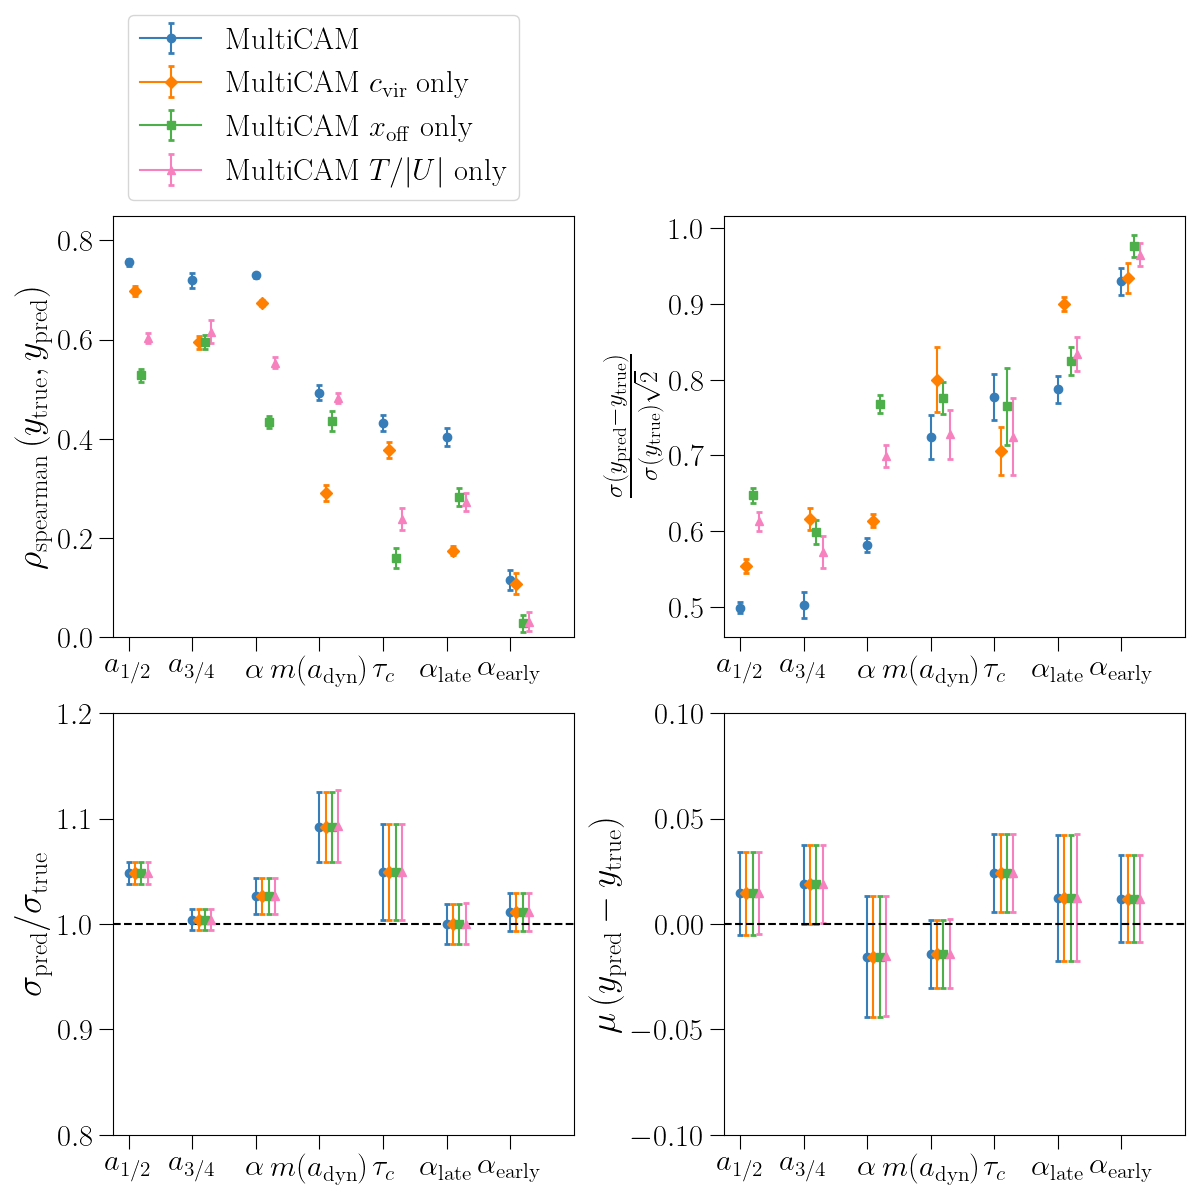
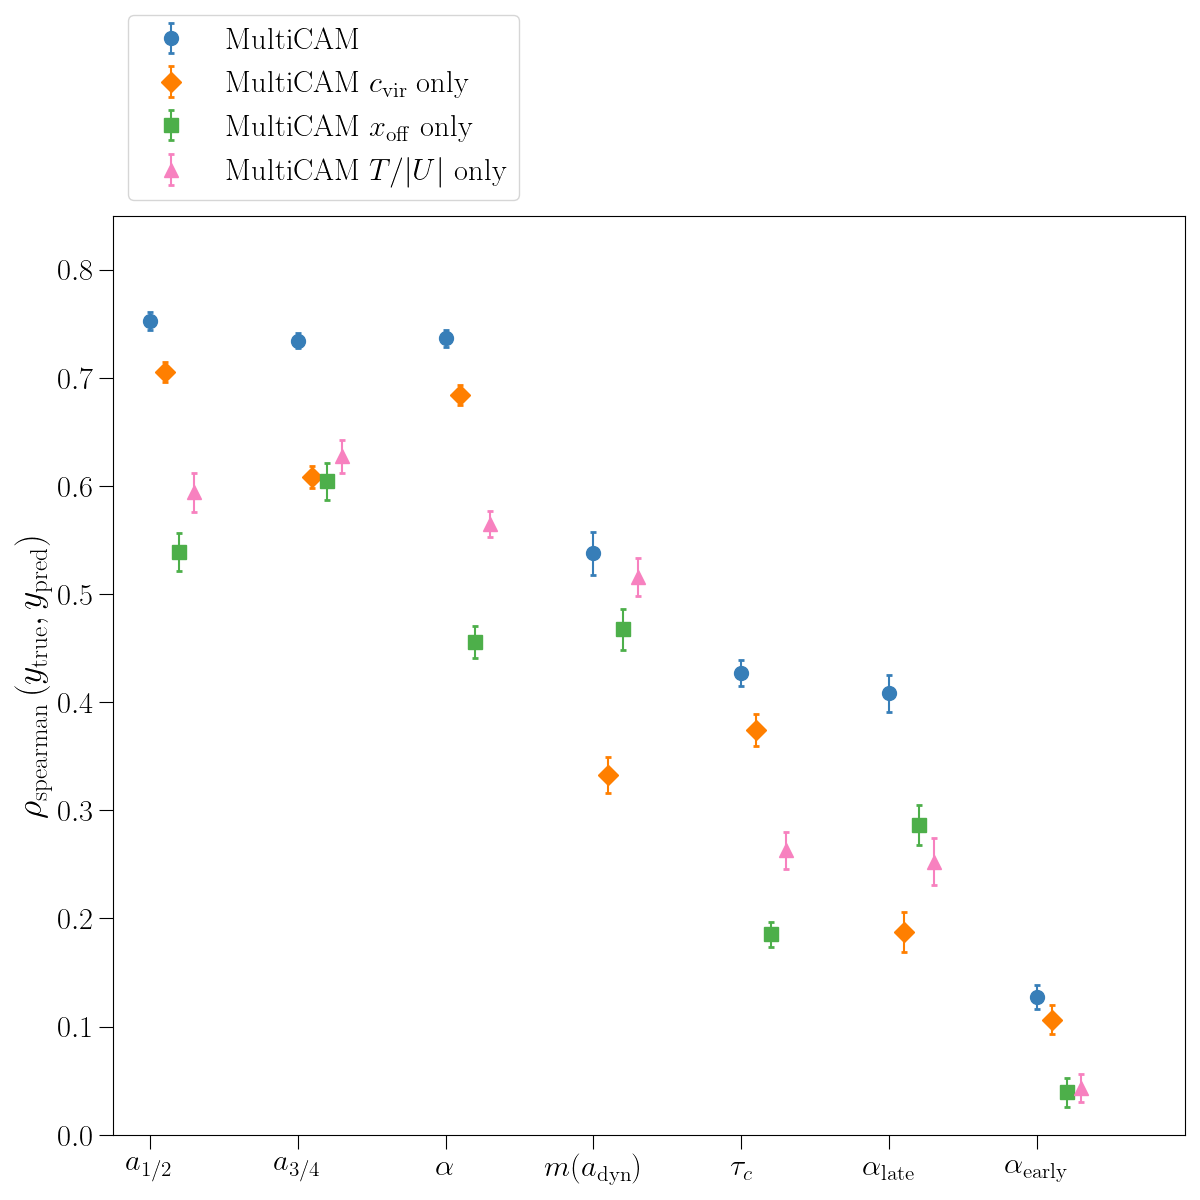
update figures

diff --git a/bin/figures.py b/bin/figures.py
@@ -238,6 +238,7 @@ def make_am_pred_plots():
     cat = mah_data["cat"]
     am = mah_data["am"]
     mass_bins = mah_data["mass_bins"]
+    mass_bins = mass_bins[:-1]  # remove last bin to avoid spearman error.
 
     # prepare catalog with all a(m)
     am_names = [f"am_{ii}" for ii in range(len(mass_bins))]
@@ -261,28 +262,28 @@ def make_am_pred_plots():
         "linear_cvir": {
             "xy": datasets["cvir_only"]["train"],
             "n_features": 1,
-            "n_targets": 100,
+            "n_targets": 99,
             "model": "linear",
             "kwargs": {"to_marginal_normal": True, "use_multicam": True},
         },
         "linear_x0": {
             "xy": datasets["x0_only"]["train"],
             "n_features": 1,
-            "n_targets": 100,
+            "n_targets": 99,
             "model": "linear",
             "kwargs": {"to_marginal_normal": True, "use_multicam": True},
         },
         "linear_tu": {
             "xy": datasets["tu_only"]["train"],
             "n_features": 1,
-            "n_targets": 100,
+            "n_targets": 99,
             "model": "linear",
             "kwargs": {"to_marginal_normal": True, "use_multicam": True},
         },
         "linear_all": {
             "xy": datasets["all"]["train"],
             "n_features": 7,
-            "n_targets": 100,
+            "n_targets": 99,
             "model": "linear",
             "kwargs": {"to_marginal_normal": True, "use_multicam": True},
         },
@@ -451,12 +452,10 @@ def make_inv_pred_plots():
 
     # make metrics plot
     metrics_data = {
-        "spear": {
-            "yrange": (0, 0.85),
-        },
-        "rscatter": {},
-        "sigma_ratio": {"yrange": (0.8, 1.2), "hline": 1.0},
-        "mu": {"yrange": (-0.1, 0.1), "hline": 0.0},
+        "spear": {"yrange": (0, 0.85)},
+        # "rscatter": {},
+        # "sigma_ratio": {"yrange": (0.8, 1.2), "hline": 1.0},
+        # "mu": {"yrange": (-0.1, 0.1), "hline": 0.0},
     }
 
     markers = ["o", "D", "s", "^"]
@@ -492,6 +491,8 @@ def make_inv_pred_plots():
         models,
         cat_test,
         params,
+        nrows=1,
+        ncols=1,
         ticksize=22,
         y_label_size=26,
         bbox_to_anchor=(0.0, 1.0, 0.45, 0.45),
@@ -511,6 +512,11 @@ def make_pred_plots():
     scales = mah_data["scales"]
     mass_bins = mah_data["mass_bins"]
 
+    # prepare catalog with all m_a
+    ma_names = [f"ma_{ii}" for ii in range(len(scales))]
+    for ii in range(len(scales)):
+        cat.add_column(ma[:, ii], name=ma_names[ii])
+
     # prepare catalog with all a_m
     am_names = [f"am_{ii}" for ii in range(len(mass_bins))]
     for ii in range(len(mass_bins)):
@@ -521,13 +527,22 @@ def make_pred_plots():
     alphas, _, _ = alpha_analysis(ma, scales, mass_bins, alpha_file=alpha_file)
     cat.add_column(alphas, name="alpha")
 
-    # load diffmah fits
+    # load diffmah parameters of best fits.
     pars = np.load(root.joinpath("data", "processed", "pbest_diffmah.npy"))
     logtc, ue, ul = pars[:, 0], pars[:, 1], pars[:, 2]
     early, late = get_early_late(ue, ul)
     cat.add_column(10**logtc, name="tau_c")
     cat.add_column(early, name="alpha_early")
     cat.add_column(late, name="alpha_late")
+
+    # load diffmah fits curves.
+    diffmah_curves = np.load(root.joinpath("data", "processed", "diffmah_fits.npy"))
+    ma_diffmah_names = [f"ma_diffmah_{ii}" for ii in range(len(scales))]
+    for ii in range(len(scales)):
+        cat.add_column(diffmah_curves[:, ii], name=ma_diffmah_names[ii])
+
+    # add a_{1/2} also as alternative parametrization
+    cat.add_column(get_an_from_am(am, mass_bins, 0.5), name="a2")
 
     # add savitsky-golay gradients
     ks = [11, 21, 41, 81, 121, 161]
@@ -543,10 +558,7 @@ def make_pred_plots():
     ]
     assert delta_k and all_grad_names
 
-    # add a_{1/2} also as alternative parametrization
-    cat.add_column(get_an_from_am(am, mass_bins, 0.5), name="a2")
-
-    # add to catalog
+    # add gradients to catalog catalog
     for k in ks:
         for jj in range(gamma_k[k].shape[1]):
             name = grad_names_k[k][jj]
@@ -554,20 +566,28 @@ def make_pred_plots():
             cat.add_column(value, name=name)
 
     info = {
-        "all": {
+        "ma": {
+            "x": ma_names,
+            "y": params,
+        },
+        "am": {
             "x": am_names,
+            "y": params,
+        },
+        "ma_diffmah": {
+            "x": ma_diffmah_names,
+            "y": params,
+        },
+        "params_diffmah": {
+            "x": ("tau_c", "alpha_early", "alpha_late"),
+            "y": params,
+        },
+        "new_params_diffmah": {
+            "x": ("tau_c", "a2", "alpha_late"),
             "y": params,
         },
         "alpha": {
             "x": ("alpha",),
-            "y": params,
-        },
-        "diffmah": {
-            "x": ("tau_c", "alpha_early", "alpha_late"),
-            "y": params,
-        },
-        "diffmah_new": {
-            "x": ("tau_c", "a2", "alpha_late"),
             "y": params,
         },
         "gradients": {
@@ -586,29 +606,29 @@ def make_pred_plots():
     datasets, _, cat_test = prepare_datasets(cat, info)
 
     data = {
-        "multicam": {
-            "xy": datasets["all"]["train"],
-            "n_features": 100,
+        "multicam_ma": {
+            "xy": datasets["ma"]["train"],
+            "n_features": 165,
             "n_targets": len(params),
             "model": "linear",
             "kwargs": {"to_marginal_normal": True, "use_multicam": True},
         },
-        "multicam_alpha": {
-            "xy": datasets["alpha"]["train"],
-            "n_features": 1,
+        "multicam_ma_diffmah": {
+            "xy": datasets["ma_diffmah"]["train"],
+            "n_features": 165,
             "n_targets": len(params),
             "model": "linear",
             "kwargs": {"to_marginal_normal": True, "use_multicam": True},
         },
-        "multicam_diffmah_new": {
-            "xy": datasets["diffmah_new"]["train"],
+        "multicam_params_diffmah": {
+            "xy": datasets["params_diffmah"]["train"],
             "n_features": 3,
             "n_targets": len(params),
             "model": "linear",
             "kwargs": {"to_marginal_normal": True, "use_multicam": True},
         },
-        "mixed_cam": {
-            "xy": datasets["all"]["train"],
+        "optcam": {
+            "xy": datasets["am"]["train"],
             "n_features": 100,
             "n_targets": len(params),
             "model": "mixed_cam",
@@ -618,9 +638,16 @@ def make_pred_plots():
                 "cam_orders": [opcam_dict[param]["order"] for param in params],
             },
         },
-        # "multicam_diffmah": {
-        #     "xy": datasets["diffmah"]["train"],
+        # "multicam_diffmah_new": {
+        #     "xy": datasets["diffmah_new"]["train"],
         #     "n_features": 3,
+        #     "n_targets": len(params),
+        #     "model": "linear",
+        #     "kwargs": {"to_marginal_normal": True, "use_multicam": True},
+        # },
+        # "multicam_alpha": {
+        #     "xy": datasets["alpha"]["train"],
+        #     "n_features": 1,
         #     "n_targets": len(params),
         #     "model": "linear",
         #     "kwargs": {"to_marginal_normal": True, "use_multicam": True},
@@ -647,40 +674,49 @@ def make_pred_plots():
     }
     models = training_suite(data)
     metrics_data = {
-        "spear": {"yrange": (0.25, 0.85)},
-        "rscatter": {"yrange": (0.3, 1.0)},
-        "sigma_ratio": {"yrange": (0.8, 1.2), "hline": 1.0},
-        "mu": {"yrange": (-0.2, 0.2), "hline": 0.0},
+        "spear": {"yrange": (0.3, 0.85)},
+        # "rscatter": {"yrange": (0.3, 1.0)},
+        # "sigma_ratio": {"yrange": (0.8, 1.2), "hline": 1.0},
+        # "mu": {"yrange": (-0.2, 0.2), "hline": 0.0},
     }
 
-    markers = ["o", "D", "s", "^"]
+    markers = ["o", "v", "^", "D", "*"]
     test_data = {
-        "multicam": (datasets["all"]["test"][0], r"\rm MultiCAM", rxplots.cb_colors[0], markers[0]),
-        "multicam_alpha": (
-            datasets["alpha"]["test"][0],
-            r"\rm MultiCAM $\alpha$ only",
-            rxplots.cb_colors[1],
-            markers[1],
+        "multicam_ma": (
+            datasets["ma"]["test"][0],
+            r"\rm MultiCAM $m(a)$",
+            rxplots.cb_colors[0],
+            markers[0],
         ),
-        "multicam_diffmah_new": (
-            datasets["diffmah_new"]["test"][0],
-            r"\rm MultiCAM DiffMAH parameters with $a_{1/2}$",
+        "multicam_ma_diffmah": (
+            datasets["ma_diffmah"]["test"][0],
+            r"\rm MultiCAM DiffMAH $m(a)$ curves",
             rxplots.cb_colors[2],
             markers[2],
         ),
-        "mixed_cam": (
-            datasets["all"]["test"][0],
-            r"\rm Optimal CAM",
+        "multicam_params_diffmah": (
+            datasets["params_diffmah"]["test"][0],
+            r"\rm MultiCAM DiffMAH parameters",
+            rxplots.cb_colors[1],
+            markers[1],
+        ),
+        "optcam": (
+            datasets["am"]["test"][0],
+            r"\rm CAM $a_{\rm opt}$",
             rxplots.cb_colors[3],
             markers[3],
         ),
-        # 'multicam_diffmah': (datasets['diffmah']['test'][0], r"\rm MultiCAM DiffMAH parameters",
-        # 'b', 's'),
         # "overfitting5": (
         #     datasets["overfitting5"]["test"][0],
         #     r"\rm MultiCAM subsampled every 5",
         #     "g",
         #     "D",
+        # ),
+        # "multicam_alpha": (
+        #     datasets["alpha"]["test"][0],
+        #     r"\rm MultiCAM $\alpha$ only",
+        #     rxplots.cb_colors[1],
+        #     markers[1],
         # ),
         # "overfitting10": (
         #     datasets["overfitting10"]["test"][0],
@@ -697,22 +733,23 @@ def make_pred_plots():
         models,
         cat_test,
         params=params,
-        ncols=2,
-        nrows=2,
-        figsize=(21, 21),
+        ncols=1,
+        nrows=1,
+        figsize=(10, 10),
         ticksize=28,
         y_label_size=32,
         bbox_to_anchor=(0.0, 1.0, 0.45, 0.45),
+        ms=8,
     )
     figfile = figsdir.joinpath("pred_plots.png")
     fig.savefig(figfile)
 
 
 def make_figures():
-    make_correlation_mah_plots()
-    make_triangle_plots()
-    make_am_pred_plots()
-    make_inv_pred_plots()
+    # make_correlation_mah_plots()
+    # make_triangle_plots()
+    # make_am_pred_plots()
+    # make_inv_pred_plots()
     make_pred_plots()
 
 
